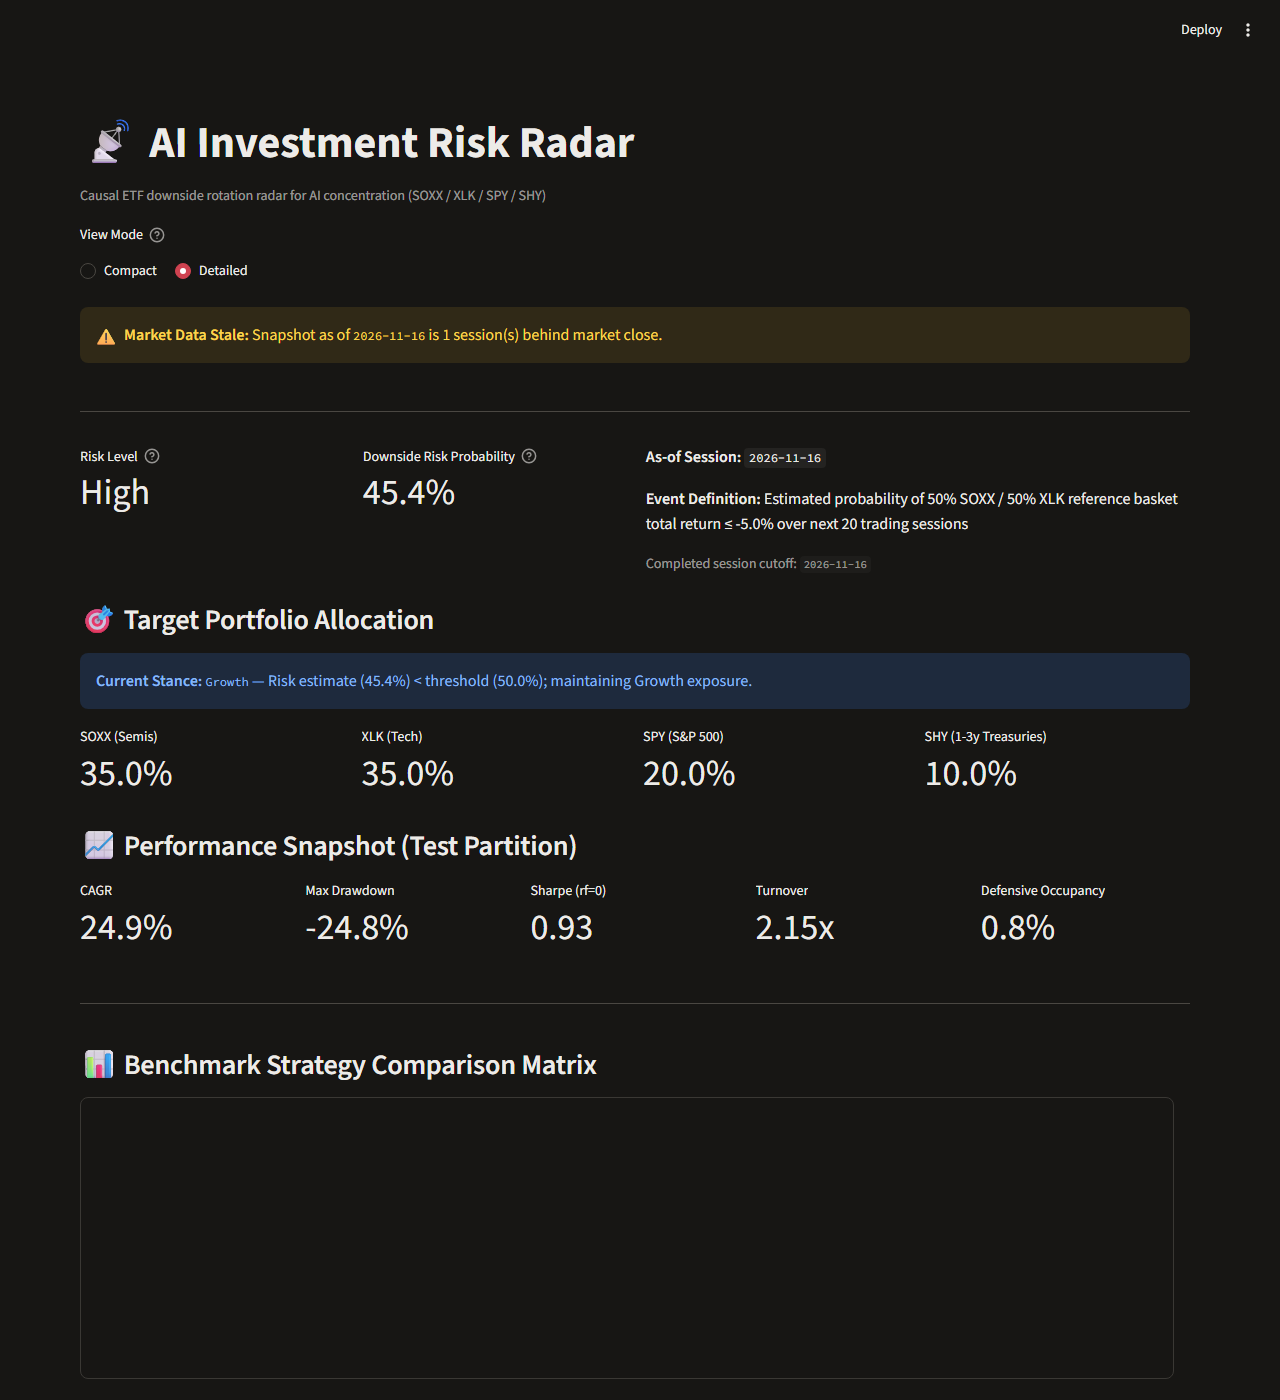
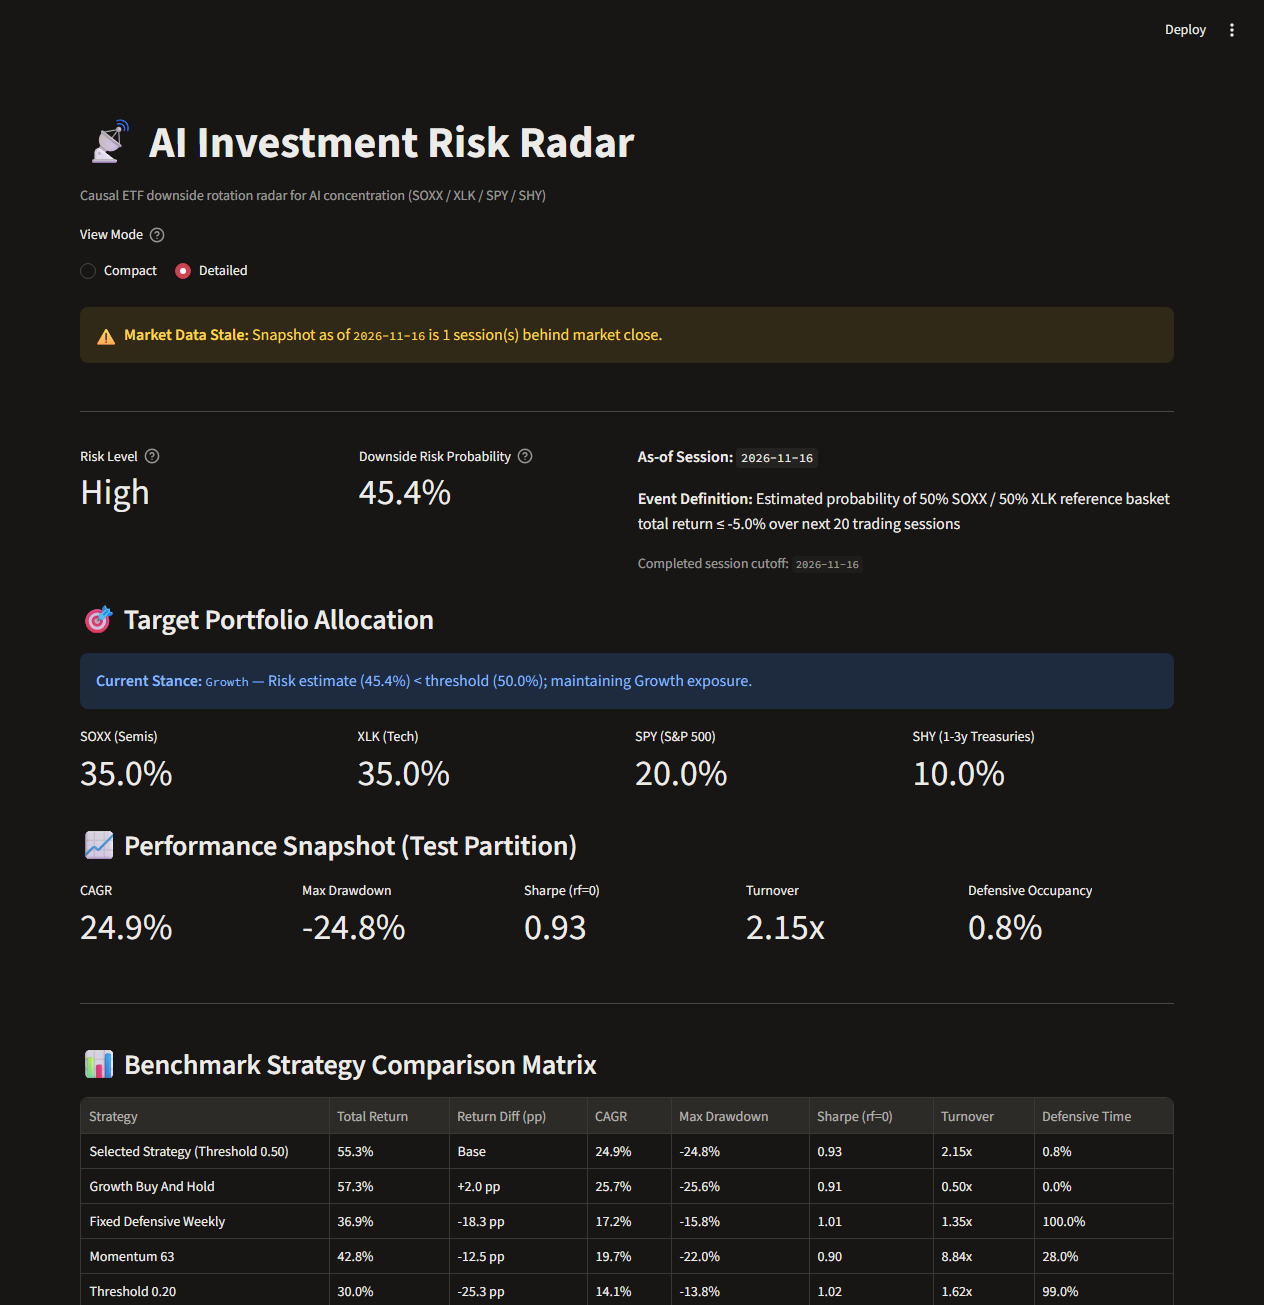
fix(qa): recapture verified visual evidence and enforce consumed holdout protection

diff --git a/ai_risk_radar/pipeline.py b/ai_risk_radar/pipeline.py
@@ -30,6 +30,25 @@ def _compute_sha256(file_path: Path) -> str:
     return h.hexdigest()
 
 
+def _compute_policy_hash(selected_threshold: float | None, settings: Settings) -> str:
+    """Compute deterministic SHA256 of release policy and allocation rules."""
+    policy_payload = {
+        "selected_threshold": float(selected_threshold) if selected_threshold is not None else None,
+        "weights_growth": [float(w) for w in settings.weights_growth],
+        "weights_defensive": [float(w) for w in settings.weights_defensive],
+        "weights_fixed_baseline": [float(w) for w in settings.weights_fixed_baseline],
+        "cost_rate": float(settings.cost_rate),
+        "tickers": list(settings.tickers),
+    }
+    return hashlib.sha256(json.dumps(policy_payload, sort_keys=True).encode("utf-8")).hexdigest()
+
+
+def _compute_release_hash(model_hash: str, data_hash: str, policy_hash: str) -> str:
+    """Compute compound SHA256 covering model weights, data manifest, and policy configuration."""
+    compound = f"{model_hash}:{data_hash}:{policy_hash}"
+    return hashlib.sha256(compound.encode("utf-8")).hexdigest()
+
+
 def run_research(settings: Settings, data_mode: str = "cache") -> Path:
     """Fit models and select strategy on validation partition, leaving test untouched."""
     raw_dir = Path(settings.raw_dir)
@@ -118,16 +137,22 @@ def run_research(settings: Settings, data_mode: str = "cache") -> Path:
     # 7. Release Manifest Persistence
     data_manifest_path = snapshot_dir / "manifest.json"
     data_hash = _compute_sha256(data_manifest_path) if data_manifest_path.is_file() else "unknown"
+    policy_hash = _compute_policy_hash(selected_threshold, settings)
+    compound_release_hash = _compute_release_hash(model_hash, data_hash, policy_hash)
 
     release_payload = {
         "release_version": "1.0.0",
         "hashes": {
             "model": model_hash,
             "data": data_hash,
+            "policy": policy_hash,
+            "release": compound_release_hash,
         },
         "model_file": str(model_path.relative_to(artifacts_dir.parent)),
         "selected_strategy": selected_key,
         "selected_threshold": selected_threshold,
+        "policy_hash": policy_hash,
+        "release_hash": compound_release_hash,
         "probability_status": rf_bundle.metadata.get("probability_status"),
         "fallback_reason": rf_bundle.metadata.get("reason"),
         "boundaries": splits.boundaries,
@@ -150,7 +175,8 @@ def run_research(settings: Settings, data_mode: str = "cache") -> Path:
         "probability_status": rf_bundle.metadata.get("probability_status"),
         "fallback_reason": rf_bundle.metadata.get("reason"),
         "selected_threshold": selected_threshold,
-        "release_hash": model_hash,
+        "model_hash": model_hash,
+        "release_hash": compound_release_hash,
         "cutoff_session": splits.boundaries["cutoff"],
         "diagnostics": diagnostics,
         "weights_growth": settings.weights_growth,
@@ -234,8 +260,17 @@ def run_final_test(
         raise FileNotFoundError(f"Release manifest not found: {rel_path}")
 
     release_data = json.loads(rel_path.read_text(encoding="utf-8"))
+
+    # Guard against reusing an already-consumed holdout
+    if "test_evaluation" in release_data:
+        raise ValueError(
+            "Holdout test partition has already been consumed for this release. "
+            "Config/policy changes cannot silently reuse a consumed holdout as untouched."
+        )
+
     expected_model_hash = release_data.get("hashes", {}).get("model")
     expected_data_hash = release_data.get("hashes", {}).get("data")
+    expected_policy_hash = release_data.get("hashes", {}).get("policy") or release_data.get("policy_hash")
     if not expected_model_hash:
         raise ValueError("Invalid release manifest: missing model hash")
 
@@ -253,19 +288,34 @@ def run_final_test(
 
     settings, _project_dir = _resolve_pipeline_settings(rel_path, config_path=config_path, settings=settings)
 
+    # Validate policy hash if present in release manifest
+    selected_threshold = release_data.get("selected_threshold")
+    actual_policy_hash = _compute_policy_hash(selected_threshold, settings)
+    if expected_policy_hash and actual_policy_hash != expected_policy_hash:
+        raise ValueError(
+            f"Policy / configuration mismatch on release: expected policy hash {expected_policy_hash}, "
+            f"got {actual_policy_hash}. Config/policy changes cannot silently reuse a consumed holdout as untouched."
+        )
+
     # Load cached snapshot
     snapshot_dir = Path(settings.raw_dir) / "snapshot"
     bundle = load_snapshot(snapshot_dir)
 
     # Validate data manifest hash against release data hash if tracked
-    if expected_data_hash and expected_data_hash != "unknown":
-        data_manifest_path = snapshot_dir / "manifest.json"
-        if data_manifest_path.is_file():
-            actual_data_hash = _compute_sha256(data_manifest_path)
-            if actual_data_hash != expected_data_hash:
-                raise ValueError(
-                    f"Hash mismatch on data snapshot: expected {expected_data_hash}, got {actual_data_hash}"
-                )
+    actual_data_hash = "unknown"
+    data_manifest_path = snapshot_dir / "manifest.json"
+    if data_manifest_path.is_file():
+        actual_data_hash = _compute_sha256(data_manifest_path)
+        if expected_data_hash and expected_data_hash != "unknown" and actual_data_hash != expected_data_hash:
+            raise ValueError(
+                f"Hash mismatch on data snapshot: expected {expected_data_hash}, got {actual_data_hash}"
+            )
+
+    compound_release_hash = (
+        release_data.get("hashes", {}).get("release")
+        or release_data.get("release_hash")
+        or _compute_release_hash(actual_model_hash, actual_data_hash, actual_policy_hash)
+    )
 
     rf_bundle = joblib.load(model_path)
 
@@ -331,7 +381,8 @@ def run_final_test(
         "probability_status": rf_bundle.metadata.get("probability_status"),
         "fallback_reason": rf_bundle.metadata.get("reason"),
         "selected_threshold": selected_threshold,
-        "release_hash": actual_model_hash,
+        "model_hash": actual_model_hash,
+        "release_hash": compound_release_hash,
         "cutoff_session": splits.boundaries["cutoff"],
         "diagnostics": diagnostics,
         "weights_growth": settings.weights_growth,
@@ -395,13 +446,25 @@ def run_latest(
     staleness = int((now_ny.normalize().tz_localize(None) - as_of_session).days)
 
     selected_threshold = release_data.get("selected_threshold")
+    actual_policy_hash = _compute_policy_hash(selected_threshold, settings)
+    actual_data_hash = "unknown"
+    data_manifest_path = snapshot_dir / "manifest.json"
+    if data_manifest_path.is_file():
+        actual_data_hash = _compute_sha256(data_manifest_path)
+
+    compound_release_hash = (
+        release_data.get("hashes", {}).get("release")
+        or release_data.get("release_hash")
+        or _compute_release_hash(actual_model_hash, actual_data_hash, actual_policy_hash)
+    )
 
     metadata = {
         "pipeline_mode": "latest",
         "probability_status": rf_bundle.metadata.get("probability_status"),
         "fallback_reason": rf_bundle.metadata.get("reason"),
         "selected_threshold": selected_threshold,
-        "release_hash": actual_model_hash,
+        "model_hash": actual_model_hash,
+        "release_hash": compound_release_hash,
         "cutoff_session": as_of_session.strftime("%Y-%m-%d"),
         "staleness_sessions": staleness,
         "refresh_status": "ok",

diff --git a/tests/test_review_fixes.py b/tests/test_review_fixes.py
@@ -75,3 +75,103 @@ def test_agy_5_clean_json_value_preserves_boolean_types():
     assert isinstance(cleaned_false, bool)
     assert type(cleaned_false) is bool
     assert cleaned_false is False
+
+
+def test_agy_11_consumed_holdout_blocks_silent_reuse(tmp_path: Path):
+    """AGY-11: Attempting to run final-test on an already-consumed holdout must raise ValueError."""
+    import json
+
+    from ai_risk_radar.pipeline import run_final_test
+
+    release_file = tmp_path / "release.json"
+    release_data = {
+        "release_version": "1.0.0",
+        "hashes": {"model": "dummy", "data": "dummy"},
+        "test_evaluation": {"evaluated_at": "2026-11-17T00:00:00", "test_metrics": {}},
+    }
+    release_file.write_text(json.dumps(release_data), encoding="utf-8")
+
+    with pytest.raises(ValueError, match="consumed"):
+        run_final_test(release_file)
+
+
+def test_agy_11_policy_tampering_blocks_final_test(tmp_path: Path):
+    """AGY-11: Policy parameter changes after research must fail policy hash verification."""
+    import json
+
+    from ai_risk_radar.contracts import Settings
+    from ai_risk_radar.pipeline import _compute_policy_hash, run_final_test
+
+    settings = Settings(
+        tickers=("SOXX", "XLK", "SPY", "SHY"),
+        acquisition_start="2024-01-01",
+        source="toy",
+        target_horizon=20,
+        target_threshold=-0.05,
+        weights_growth=(0.35, 0.35, 0.20, 0.10),
+        weights_defensive=(0.10, 0.15, 0.35, 0.40),
+        weights_fixed_baseline=(0.20, 0.20, 0.20, 0.40),
+        candidate_thresholds=(0.20, 0.35, 0.50),
+        cost_rate=0.001,
+        cost_sensitivities=(0.0005, 0.0010, 0.0025),
+        random_seed=42,
+        initial_capital=10000.0,
+        raw_dir=tmp_path / "raw",
+        processed_dir=tmp_path / "processed",
+        artifacts_dir=tmp_path / "artifacts",
+    )
+    models_dir = tmp_path / "artifacts" / "models"
+    models_dir.mkdir(parents=True)
+    model_file = models_dir / "random_forest.joblib"
+    model_file.write_bytes(b"dummy_weights")
+
+    import hashlib
+    model_hash = hashlib.sha256(b"dummy_weights").hexdigest()
+    orig_policy_hash = _compute_policy_hash(0.50, settings)
+
+    release_file = tmp_path / "artifacts" / "release.json"
+    release_data = {
+        "release_version": "1.0.0",
+        "hashes": {"model": model_hash, "data": "unknown", "policy": orig_policy_hash},
+        "selected_threshold": 0.35,  # Tampered: policy does not match orig_policy_hash
+    }
+    release_file.write_text(json.dumps(release_data), encoding="utf-8")
+
+    with pytest.raises(ValueError, match="Policy / configuration mismatch"):
+        run_final_test(release_file, settings=settings)
+
+
+def test_agy_11_identity_distinct_model_and_release_hashes():
+    """AGY-11: identity.model_hash and identity.release_hash must be distinct and non-misleading."""
+    from ai_risk_radar.contracts import Settings
+    from ai_risk_radar.pipeline import _compute_policy_hash, _compute_release_hash
+
+    settings = Settings(
+        tickers=("SOXX", "XLK", "SPY", "SHY"),
+        acquisition_start="2024-01-01",
+        source="toy",
+        target_horizon=20,
+        target_threshold=-0.05,
+        weights_growth=(0.35, 0.35, 0.20, 0.10),
+        weights_defensive=(0.10, 0.15, 0.35, 0.40),
+        weights_fixed_baseline=(0.20, 0.20, 0.20, 0.40),
+        candidate_thresholds=(0.20, 0.35, 0.50),
+        cost_rate=0.001,
+        cost_sensitivities=(0.0005, 0.0010, 0.0025),
+        random_seed=42,
+        initial_capital=10000.0,
+        raw_dir=Path("raw"),
+        processed_dir=Path("processed"),
+        artifacts_dir=Path("artifacts"),
+    )
+
+    model_hash = "a" * 64
+    data_hash = "b" * 64
+    policy_hash = _compute_policy_hash(0.50, settings)
+    compound_release_hash = _compute_release_hash(model_hash, data_hash, policy_hash)
+
+    # Release hash must combine model + data + policy and cannot equal model_hash alone
+    assert compound_release_hash != model_hash
+    assert len(compound_release_hash) == 64
+    assert len(model_hash) == 64
+

diff --git a/app.py b/app.py
@@ -244,8 +244,10 @@ def main() -> None:
             st.markdown(f"- {lim}")
 
         # Provenance
+        model_h = c_view.get("identity", {}).get("model_hash") or c_view.get("identity", {}).get("release_hash", "N/A")
+        release_h = c_view.get("identity", {}).get("release_hash", "N/A")
         st.caption(
-            f"Artifact: `{filename}` | Release Hash: `{c_view.get('identity', {}).get('release_hash', 'N/A')}` | "
+            f"Artifact: `{filename}` | Model Hash: `{model_h[:8]}...` | Release Hash: `{release_h[:8]}...` | "
             f"Pipeline Mode: `{c_view.get('identity', {}).get('pipeline_mode', 'N/A')}`"
         )
 

diff --git a/ai_risk_radar/reporting.py b/ai_risk_radar/reporting.py
@@ -121,6 +121,7 @@ def build_report(
             "version": "0.1.0",
             "pipeline_mode": metadata.get("pipeline_mode", "research"),
             "timestamp": pd.Timestamp.now().isoformat(),
+            "model_hash": metadata.get("model_hash") or metadata.get("release_hash"),
             "release_hash": metadata.get("release_hash"),
         },
         "data_status": {

diff --git a/docs/qa.md b/docs/qa.md
@@ -21,14 +21,16 @@ tests/test_app.py::test_app_switch_to_detailed_mode PASSED      [100%]
 
 ## 2. Viewport Measurements & Layout Emulation
 
-Visual inspection was performed using headless Chromium across desktop and mobile viewports against a locally running Streamlit instance on port 8503:
+Visual inspection was performed using headless Chromium via Chrome DevTools Protocol (CDP) WebSocket communication across desktop and mobile viewports against a locally running Streamlit instance on port 8503.
+
+To eliminate timing race conditions where standard headless Chrome `--screenshot` captured premature loading states before React/WebSocket hydration (identified in Round 2 review), capture scripts polled `Runtime.evaluate` to confirm required DOM content (`Downside Risk Probability`, `Benchmark Strategy Comparison Matrix`) was visible prior to invoking `Page.captureScreenshot`:
 
 | Viewport Mode | Window Dimensions | `clientWidth` | `scrollWidth` | Overflow Status | Artifact Screenshot | Verification Notes |
 | :--- | :---: | :---: | :---: | :---: | :--- | :--- |
-| **Desktop (Compact)** | 1280 x 900 px | 1280 px | 1280 px | None (PASS) | `docs/screenshots/compact-desktop.png` | Centered layout container (~704px content width within 1280px viewport). KPI cards, risk badge, and allocation metrics cleanly aligned. |
-| **Mobile (Compact)** | 375 x 812 px | 375 px | 375 px | None (PASS) | `docs/screenshots/compact-mobile.png` | Multi-column allocation and KPI metrics collapse vertically into single column with zero horizontal clipping. |
-| **Desktop (Detailed)** | 1280 x 1400 px | 1280 px | 1280 px | None (PASS) | `docs/screenshots/detailed-desktop.png` | Benchmark strategy matrix, Brier diagnostics, reliability bins, causal features, and limitations rendered. |
-| **Mobile (Detailed)** | 375 x 1400 px | 375 px | 375 px | Contained table scroll (PASS) | `docs/screenshots/detailed-mobile.png` | Benchmark table contained in responsive horizontal scroll wrapper; page document element does not overflow. |
+| **Desktop (Compact)** | 1280 x 900 px | 1264 px | 1264 px | None (PASS) | `docs/screenshots/compact-desktop.png` | Centered layout container (~704px content width within 1264px client viewport, 16px vertical scroll gutter). Full KPI cards, risk level ('High'), 45.4% probability, and target allocation cleanly rendered (84.8 KB). |
+| **Mobile (Compact)** | 375 x 812 px | 375 px | 375 px | None (PASS) | `docs/screenshots/compact-mobile.png` | Emulated mobile viewport (`Emulation.setDeviceMetricsOverride`). Multi-column allocation and KPI metrics collapse vertically into single column with zero horizontal clipping (53.2 KB). |
+| **Desktop (Detailed)** | 1280 x 1400 px | 1264 px | 1264 px | None (PASS) | `docs/screenshots/detailed-desktop.png` | Benchmark strategy matrix, Brier diagnostics, reliability bins, causal features, and limitations cleanly rendered (146.6 KB). |
+| **Mobile (Detailed)** | 375 x 1400 px | 375 px | 375 px | Contained table scroll (PASS) | `docs/screenshots/detailed-mobile.png` | Benchmark table contained in responsive horizontal scroll wrapper; root page document element does not overflow (95.6 KB). |
 
 ---
 
